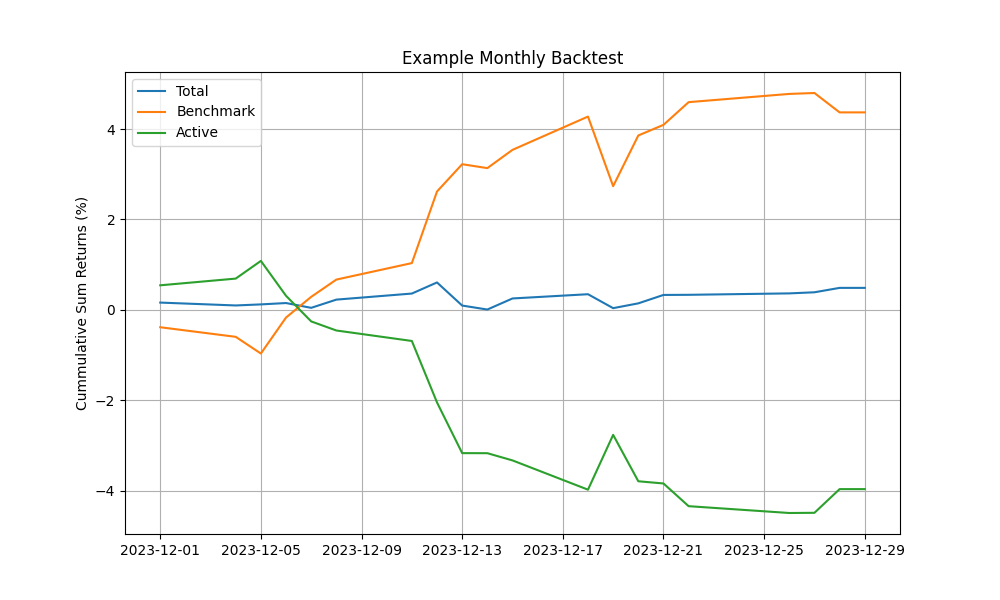
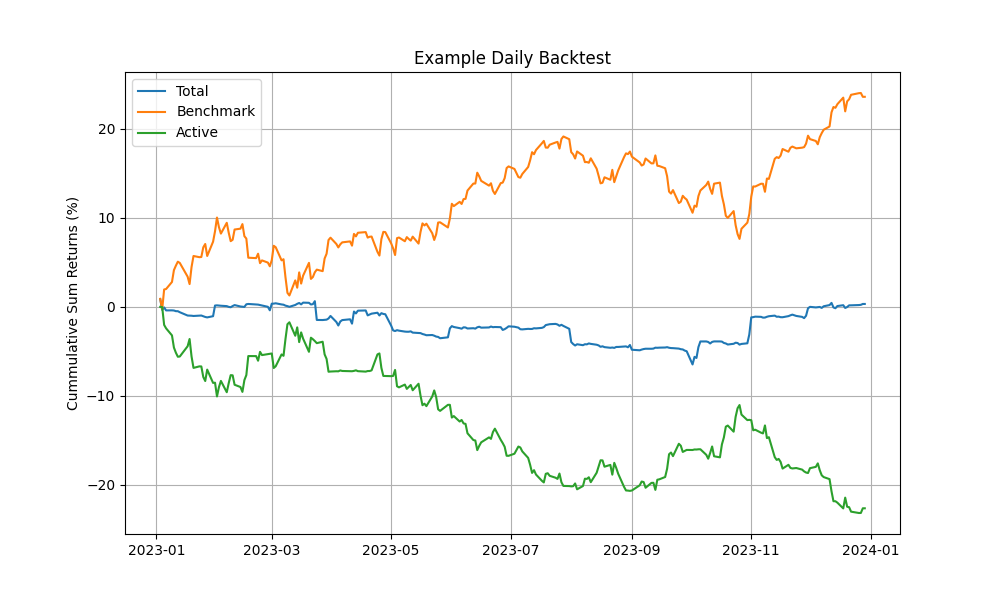
Been doing some sleuthing.

diff --git a/research/example/backtest_example.py b/research/example/backtest_example.py
@@ -4,14 +4,13 @@ from functools import partial
 from pathlib import Path
 
 import silverfund.data_access_layer as dal
-from silverfund.alphas import grindold_kahn
+from silverfund.alphas import static_alpha
 from silverfund.backtester import Backtester
 from silverfund.constraints import full_investment, long_only, no_buying_on_margin, unit_beta
 from silverfund.enums import Interval
-from silverfund.logging.slack import SlackLogConfig
 from silverfund.portfolios import mean_variance_efficient
-from silverfund.scores import z_score
-from silverfund.signals import momentum
+from silverfund.scores import no_score
+from silverfund.signals import no_signal
 from silverfund.strategies import Strategy
 
 if __name__ == "__main__":
@@ -22,9 +21,9 @@ if __name__ == "__main__":
 
     # Define strategy
     strategy = Strategy(
-        signal_constructor=momentum,
-        score_constructor=partial(z_score, signal_col="mom"),
-        alpha_constructor=partial(grindold_kahn, interval=interval),
+        signal_constructor=no_signal,
+        score_constructor=no_score,
+        alpha_constructor=partial(static_alpha, value=0),
         portfolio_constructor=mean_variance_efficient,
         constraints=[
             full_investment,

diff --git a/research/example/backtest_example_summary.py b/research/example/backtest_example_summary.py
@@ -8,19 +8,19 @@ if __name__ == "__main__":
     folder = "research/example/results/"
 
     # Asset returns (result of backtester)
-    data_file_path = folder + "backtest_exapmle.parquet"
+    data_file_path = folder + "backtest_example.parquet"
     asset_returns = AssetReturns(returns=pl.read_parquet(data_file_path))
 
     # Performance instance
     performance = Performance(
-        interval=Interval.DAILY,
+        interval=Interval.MONTHLY,
         asset_returns=asset_returns,
         annualize=True,
     )
 
     # Chart
-    title = "Example DAILY Backtest"
-    decomposed_plot_file_path = folder + "backtest_example_decomposed.png"
+    title = "Example Monthly Backtest"
+    decomposed_plot_file_path = folder + "backtest_example.png"
     performance.plot_returns(
         compounding=Compounding.SUM,
         title=title,

diff --git a/research/example/daily_backtest_summary.py b/research/example/daily_backtest_summary.py
@@ -21,7 +21,7 @@ if __name__ == "__main__":
     )
 
     # Chart
-    title = "Example Monthly Backtest"
+    title = "Example Daily Backtest"
     decomposed_plot_file_path = folder + "daily_backtest.png"
     performance.plot_returns(
         compounding=Compounding.SUM,

diff --git a/research/example/daily_backtest.py b/research/example/daily_backtest.py
@@ -15,7 +15,7 @@ from silverfund.strategies import Strategy
 
 if __name__ == "__main__":
     # Date range
-    start_date = date(2023, 12, 1)
+    start_date = date(2023, 1, 1)
     end_date = date(2023, 12, 31)
     interval = Interval.DAILY
 
